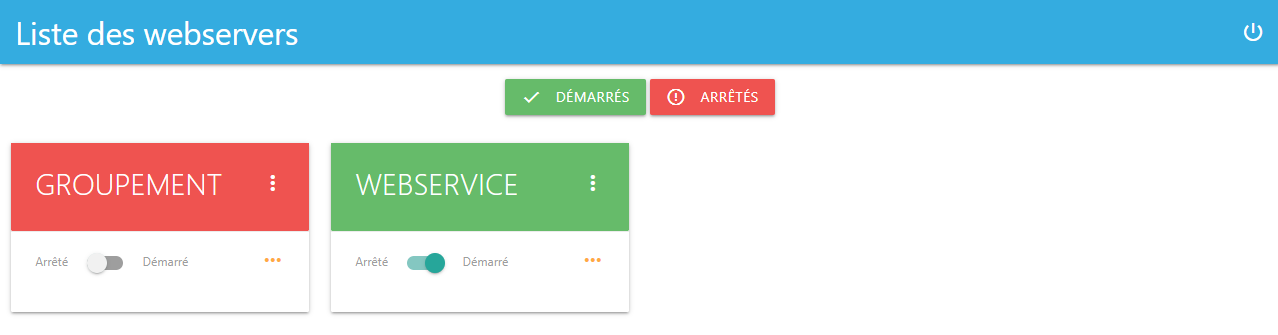
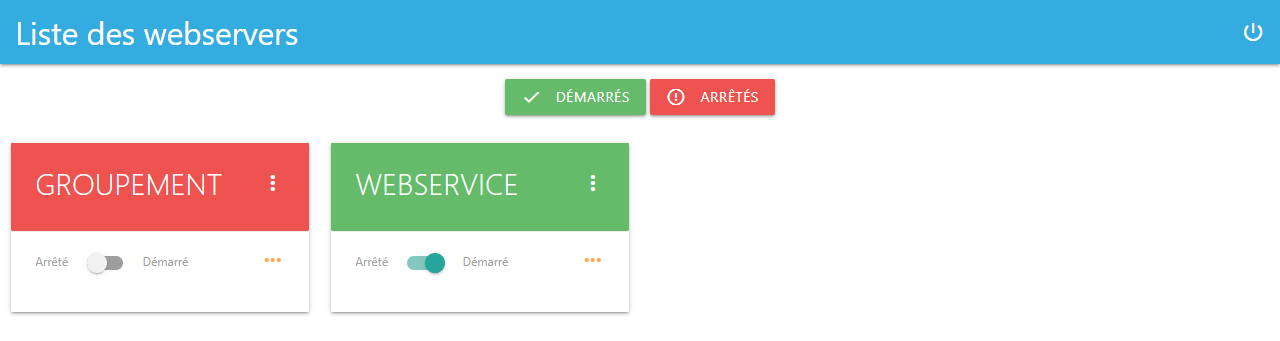
Correction affichage

diff --git a/src/routes/[wserver]/details/[name]/index.svelte b/src/routes/[wserver]/details/[name]/index.svelte
@@ -40,11 +40,11 @@
   const { session } = stores();
   const { SERVER, PORT, SERVER_SUITE } = $session;
 
-  let userid = "";
-  let libraryList = "";
-  let startup = "";
-  let description = "";
-  let libraryListPosition = ""; // *FIRST | *LAST
+  let userid;
+  let libraryList;
+  let startup;
+  let description;
+  let libraryListPosition; // *FIRST | *LAST
 
   $: if (propertiesWebservice) {
     description = propertiesWebservice.wsproperties.description;
@@ -181,7 +181,7 @@
 
 <section>
   <div class="row">
-    <div class="col s1" style="padding-left: 1rem; padding-top:1rem;">
+    <div class="col s2" style="padding-left: 1rem; padding-top:1rem;">
       <a
         href="{wserver}/"
         class="waves-effect waves-light btn"
@@ -190,12 +190,12 @@
         retour
       </a>
     </div>
-    <div class="col s10 center">
+    <div class="col s8 center">
       <h4 style="color: #ff6d00">
         {description}
       </h4>
     </div>
-    <div class="col s1" style="padding-right: 1rem; padding-top:1rem;">
+    <div class="col s2" style="padding-right: 1rem; padding-top:1rem;">
       <a
         href="{wserver}/details/{wservice}/deploy"
         class="waves-effect waves-light btn"
@@ -210,6 +210,16 @@
     <h5 style="color: #00897b; margin-left: 1rem;">
       Propriétés
     </h5>
+  </div>
+
+  <div class="switch">
+    <label>
+      Arrêté
+      <input
+        type="checkbox"/>
+      <span class="lever" />
+      Démarré
+    </label>
   </div>
 
   {#if propertiesWebservice}
@@ -228,7 +238,7 @@
       </div>
       <div class="col s12">
         <div class="col s2" style="font-style: italic;">Type démarrage : </div>
-        <div class="col s10">
+        <!-- <div class="col s10">
           <label>
             <input name="startup" bind:group={startup} type="radio" value={true}/>
             <span>Automatique</span>
@@ -237,15 +247,25 @@
             <input name="startup" bind:group={startup} type="radio" value={false} />
             <span>Manuel</span>
           </label>
+        </div> -->
+        <div class="switch">
+          <label>
+            Arrêté
+            <input
+              type="checkbox"
+              bind:checked={startup} />
+            <span class="lever" />
+            Démarré
+          </label>
         </div>
       </div>
       <div class="col s12">
         <div class="input-field col s12">
-          <label for="userid">Utilisateur</label>
+          <label class="active" for="userid">Utilisateur</label>
           <input
             id="userid"
             type="text"
-            bind:value={userid} />
+            bind:value={userid} class="validate">
         </div>
       </div>
       <div class="col s12">
@@ -255,7 +275,7 @@
             class="materialize-textarea" 
             bind:value={libraryList}
             data-length="120"></textarea>
-          <label for="libraryList">Liste des bibliothèques (séparés par ";")</label>
+          <label for="libraryList" class="active">Liste des bibliothèques (séparés par ";") </label>
         </div>
       </div>
       <div class="col s12">

diff --git a/src/routes/[wserver]/index.svelte b/src/routes/[wserver]/index.svelte
@@ -51,6 +51,7 @@
   let stopFilter = true; // Bouton de filtre "Arrêtés"
   let loadedWebservices = []; // liste des webservices chargés à partir de l'API
   let filteredWebservices = []; // liste des webservices filtrés
+  let description = wserver;
 
   const unsubscribe = webservices.subscribe(items => {
     loadedWebservices = items;
@@ -225,19 +226,28 @@
 
 <section>
   <div class="row">
-    <div class="center" style="padding-top:1rem;">
-      <WsFilter on:filtrer={filtrer} />
-      <div class="left" style="padding-left: 1rem;">
-        <a
-          href="/"
-          class="waves-effect waves-light btn"
-          style="background-color: #34ace0;">
-          <i class="material-icons left">arrow_back</i>
-          retour
-        </a>
-      </div>
+    <div class="col s2" style="padding-left: 1rem; padding-top:1rem;">
+      <a
+        href="/"
+        class="waves-effect waves-light btn"
+        style="background-color: #34ace0;">
+        <i class="material-icons left">arrow_back</i>
+        retour
+      </a>
+    </div>
+    <div class="col s8 center">
+      <h4 style="color: #ff6d00;margin-top: 1rem;margin-bottom: 0rem;">
+        {description}
+      </h4>
     </div>
   </div>
+  <div>
+    <div class="center">
+      <WsFilter on:filtrer={filtrer} />
+      
+    </div>
+  </div>
+
   <div class="row">
     {#each filteredWebservices as webservice (webservice.webservice)}
       <div transition:scale animate:flip={{ duration: 300 }}>

diff --git a/src/routes/[wserver]/details/[name]/deploy.svelte b/src/routes/[wserver]/details/[name]/deploy.svelte
@@ -141,7 +141,7 @@
 
 <section>
   <div class="row">
-    <div class="col s1 left" style="padding-left: 1rem; padding-top:1rem;">
+    <div class="col s2 left" style="padding-left: 1rem; padding-top:1rem;">
       <a
         href="{wserver}/"
         class="waves-effect waves-light btn"
@@ -150,7 +150,7 @@
         retour
       </a>
     </div>
-    <div class="col s10 center">
+    <div class="col s8 center">
       <h4 style="color: #ff6d00">
         Transférer le webservice "{wservice}" sur une autre machine
       </h4>

diff --git a/src/components/Carte.svelte b/src/components/Carte.svelte
@@ -29,10 +29,10 @@
   }
 </style>
 
-<div class="col s12 m3">
+<div class="col s12 m6 l4 xl3">
   <div class="card ">
     <div
-      class="card-content white-text {start ? 'green lighten-1' : 'red lighten-1'}">
+      class="card-content white-text {start ? 'green lighten-1' : 'red lighten-1'}" style="height: 9rem;">
       <span class="card-title activator white-text text-darken-4 title">
         {webservice.webservice}
         <i class="material-icons right">more_vert</i>

diff --git a/src/components/UI/NotifyMessage.svelte b/src/components/UI/NotifyMessage.svelte
@@ -28,13 +28,14 @@
     display: block;
     max-width: 89%;
     color: black;
-    padding-left: 66px;
+    /* padding-left: 66px; */
   }
 </style>
 
 <div class="container page">
   <div class="row">
-    <div class="col s6 offset-m3">
+    <!-- <div class="col s6 offset-m3"> -->
+    <div class="col s10 offset-m1">
       <div
         class="alert alert-info alert-with-icon center-align"
         data-notify="container">

diff --git a/src/components/CarteDetail.svelte b/src/components/CarteDetail.svelte
@@ -2,7 +2,7 @@
   export let detailWs;
 </script>
 
-<div class="col s12 l6">
+<div class="col s12 xl6">
   <div class="card-panel teal" style="background-color: #40739e !important">
     <span class="white-text">
       <h5 class="center">{detailWs.entryPoint}</h5>

diff --git a/src/components/UI/Header.svelte b/src/components/UI/Header.svelte
@@ -13,7 +13,7 @@
       })
       .finally(function() {
         $session.token = null;
-        goto("/");
+        goto("/login");
       });
   }
 </script>
